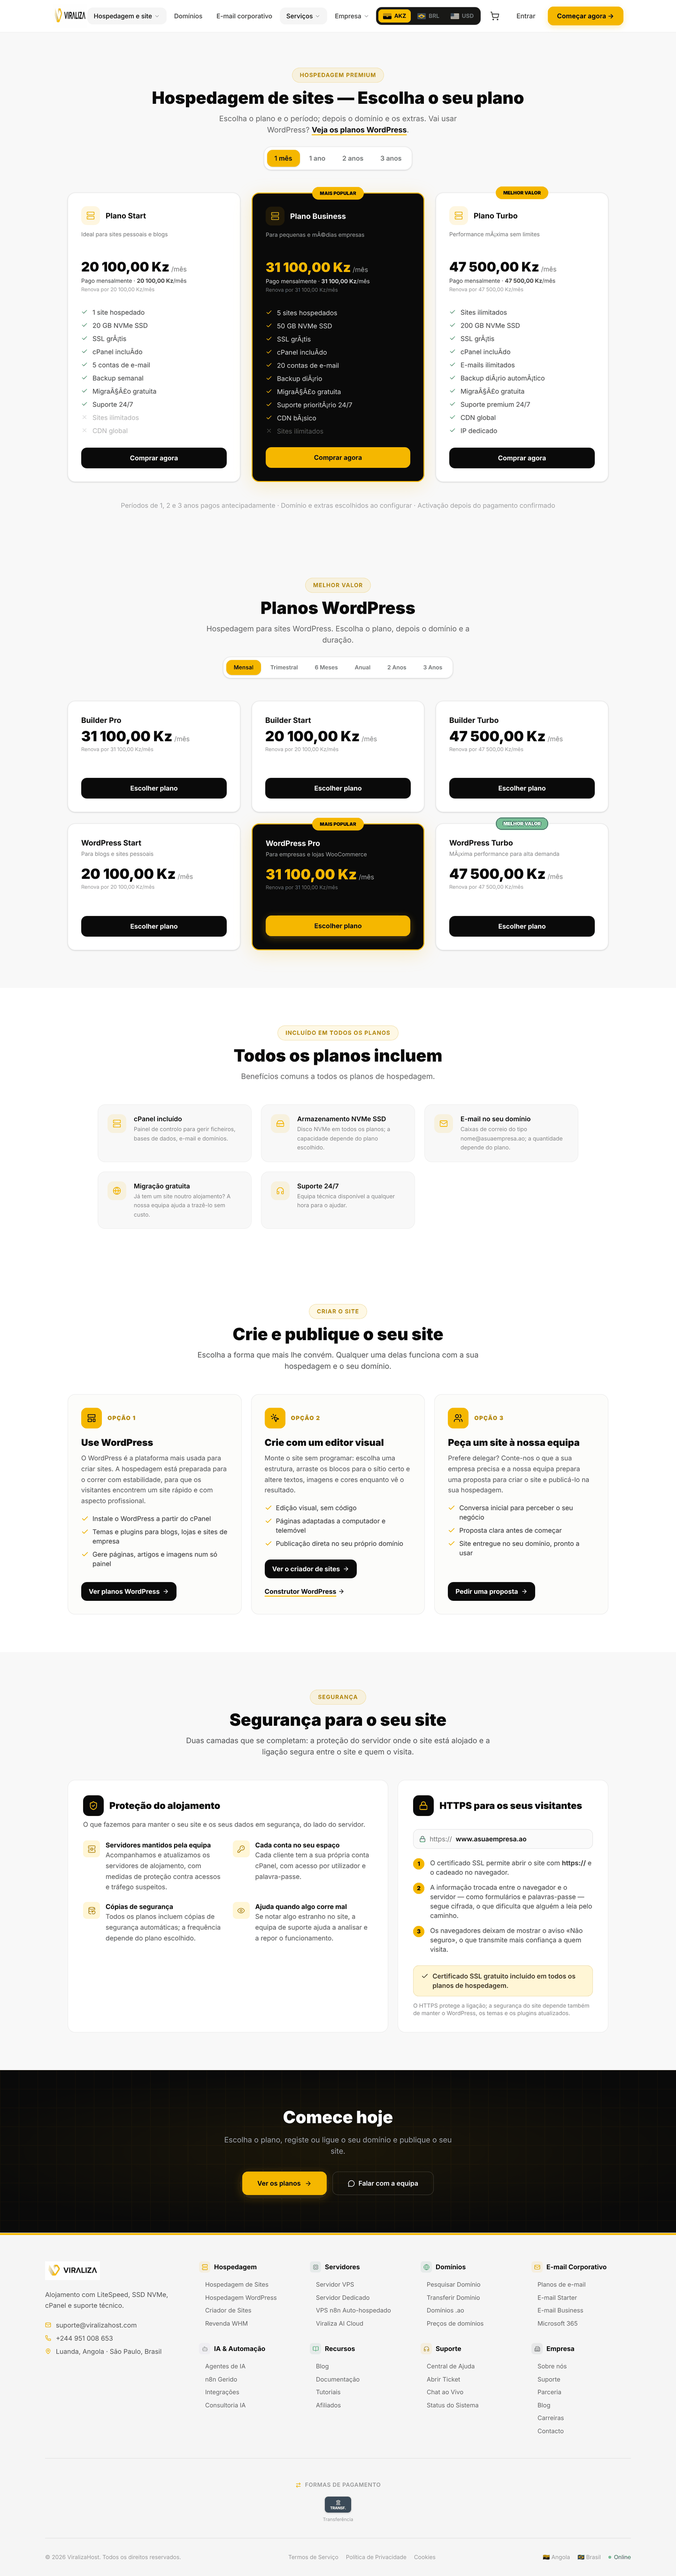
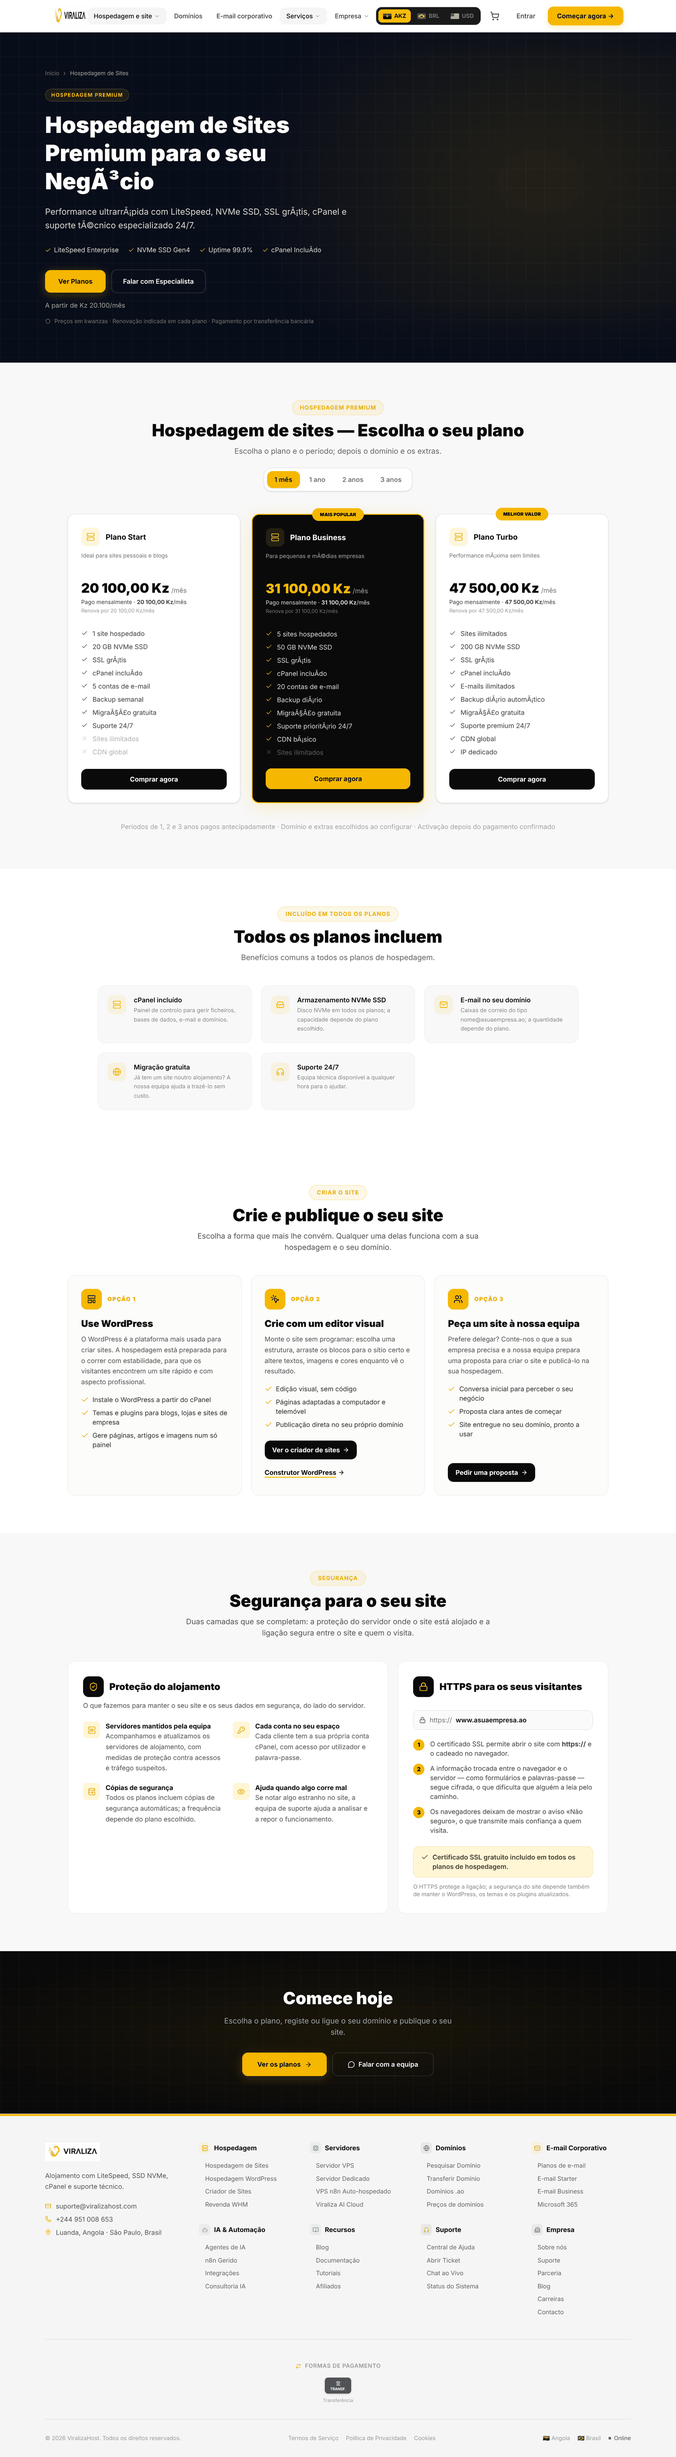
Hospedagem de sites: repõe a hero do painel e retira a grelha de planos WordPress
- Hero original (ServiceHero + «Banners de páginas», slug hospedagem-de-sites) antes de «Escolha o seu plano»;
  o H1 único volta a ser o título da hero e «Escolha o seu plano» passa a H2
- «Escolha o seu plano» só com planos de hospedagem de sites; grelha WordPress retirada desta página
  (catálogo, preços e /comprar/wp-… inalterados)
- «Use WordPress» passa a bloco informativo sem botão; /hospedagem-wordpress e rodapé → #wordpress
- Âncora do endereço reposicionada depois de os planos carregarem (evita cair acima de #wordpress)
- Ensaio hosting-page-e2e (77 verificações): hero do painel, sem grelha WordPress, links e percursos;
  verificação de pesquisa em menu-e2e passa a esperar pela página

Claude-Session: https://claude.ai/code/session_01CbKpVEo4bz2ohKVt8UVjik

diff --git a/src/app/hospedagem-de-sites/page.tsx b/src/app/hospedagem-de-sites/page.tsx
@@ -5,18 +5,22 @@ import { Header } from '@/components/layout/Header'
 import { Footer } from '@/components/layout/Footer'
 import { IncludedFeatures } from '@/components/service/IncludedFeatures'
 import { FinalCTA } from '@/components/service/FinalCTA'
-import { DynamicServicePricing } from '@/components/service/DynamicServicePricing'
 import { HostingPlansSection } from '@/components/service/HostingPlansSection'
 import { BuildSiteSection, SecuritySection, type SslCoverage } from '@/components/service/HostingSiteSections'
 import { getPool } from '@/lib/db/pool'
+import { ServiceHero } from '@/components/service/ServiceHero'
+import { getBannerPage } from '@/lib/banner-pages'
+import { fromPriceText } from '@/lib/commerce/from-price'
 
 // /hospedagem-de-sites — ordem fixa (ver docs/hospedagem-de-sites.md):
-//   1. Hospedagem de sites — Escolha o seu plano (#planos; inclui os planos WordPress em #planos-wordpress)
+//   0. Hero (ServiceHero + «Banners de páginas» do painel, slug hospedagem-de-sites; único H1)
+//   1. Hospedagem de sites — Escolha o seu plano (#planos; só planos de hospedagem de sites)
 //   2. Todos os planos incluem
 //   3. Crie e publique o seu site (#crie-o-seu-site; «Use WordPress» em #wordpress)
 //   4. Segurança para o seu site (#seguranca)
 //   5. Comece hoje (botão → #planos)
-// Preços, ciclos, descontos e «Comprar agora» vêm do catálogo (HostingPlansSection / DynamicServicePricing).
+// Preços, ciclos, descontos e «Comprar agora» vêm do catálogo (HostingPlansSection). Os planos WordPress não são
+// mostrados aqui, mas continuam no catálogo e à venda (/construtor-wordpress, /comprar/wp-…).
 
 export const metadata: Metadata = {
   title: 'Hospedagem de Sites',
@@ -49,19 +53,35 @@ async function sslCoverage(): Promise<SslCoverage> {
 }
 
 export default async function HospedagemDeSitesPage() {
-  const ssl = await sslCoverage()
+  const [ssl, banner, fromPrice] = await Promise.all([sslCoverage(), getBannerPage('hospedagem-de-sites'), fromPriceText('hosting')])
   return (
     <>
       <Header />
       <main>
-        {/* 1. Escolha o seu plano (hospedagem + WordPress, a partir do catálogo) */}
+        {/* 0. Hero (configuração em Painel → Site → Banners de páginas) */}
+        <div data-section="hero" data-testid="hosting-hero">
+          <ServiceHero
+            breadcrumb={banner?.breadcrumb ?? 'Hospedagem de Sites'}
+            tag={banner?.tag ?? 'Hospedagem Premium'}
+            title={banner?.title ?? 'Hospedagem de Sites Premium para o seu Negócio'}
+            subtitle={banner?.subtitle ?? 'Performance ultrarrápida com LiteSpeed, NVMe SSD, SSL grátis, cPanel e suporte técnico especializado 24/7.'}
+            price={fromPrice ?? undefined}
+            cta={banner?.button_primary_text ?? 'Ver Planos'}
+            ctaHref={banner?.button_primary_link ?? '#planos'}
+            ctaSecondary={banner?.button_secondary_text ?? 'Falar com Especialista'}
+            ctaSecondaryHref={banner?.button_secondary_link ?? '/tickets'}
+            bgImage={banner?.bg_image ?? 'https://images.unsplash.com/photo-1558618666-fcd25c85cd64?w=1920&q=80&auto=format&fit=crop'}
+            bgColor={banner?.bg_color ?? '#080d1a'}
+            highlights={banner?.highlights?.length ? banner.highlights : ["LiteSpeed Enterprise","NVMe SSD Gen4","Uptime 99.9%","cPanel Incluído"]}
+            guarantee={banner?.show_guarantee ?? true}
+            layout="split"
+          />
+        </div>
+        {/* 1. Escolha o seu plano (só hospedagem de sites, a partir do catálogo) */}
         <div data-section="plans">
-          <HostingPlansSection headingAs="h1" className="pt-32 md:pt-36 pb-16"
+          <HostingPlansSection
             title="Hospedagem de sites — Escolha o seu plano"
-            subtitle={<>Escolha o plano e o período; depois o domínio e os extras. Vai usar WordPress? <Link href="#planos-wordpress" className="font-bold text-[#0A0A0A] underline decoration-[#F5B700] decoration-2 underline-offset-4" data-testid="link-wordpress">Veja os planos WordPress</Link>.</>} />
-          <DynamicServicePricing id="planos-wordpress" category="wordpress" cols={3} showBillingToggle
-            title="Planos WordPress"
-            subtitle="Hospedagem para sites WordPress. Escolha o plano, depois o domínio e a duração." />
+            subtitle="Escolha o plano e o período; depois o domínio e os extras." />
         </div>
         {/* 2. Todos os planos incluem */}
         <div data-section="included" id="incluido" className="scroll-mt-24">

diff --git a/src/components/service/HostingSiteSections.tsx b/src/components/service/HostingSiteSections.tsx
@@ -17,7 +17,7 @@ const OPTIONS: Option[] = [
     id: 'wordpress', n: '1', icon: LayoutTemplate, title: 'Use WordPress',
     text: 'O WordPress é a plataforma mais usada para criar sites. A hospedagem está preparada para o correr com estabilidade, para que os visitantes encontrem um site rápido e com aspecto profissional.',
     points: ['Instale o WordPress a partir do cPanel', 'Temas e plugins para blogs, lojas e sites de empresa', 'Gere páginas, artigos e imagens num só painel'],
-    links: [{ label: 'Ver planos WordPress', href: '#planos-wordpress', tid: 'build-link-wordpress' }],
+    links: [], // bloco informativo (os planos WordPress não são apresentados nesta página)
   },
   {
     id: 'editor-visual', n: '2', icon: MousePointerClick, title: 'Crie com um editor visual',
@@ -54,14 +54,14 @@ export function BuildSiteSection() {
               <ul className="space-y-2 mb-6">
                 {o.points.map(p => <li key={p} className="flex gap-2 text-sm text-[#333]"><Check size={16} className="text-[#D9A300] shrink-0 mt-0.5" aria-hidden="true" />{p}</li>)}
               </ul>
-              <div className="mt-auto flex flex-wrap gap-x-4 gap-y-2">
+              {o.links.length > 0 && <div className="mt-auto flex flex-wrap gap-x-4 gap-y-2">
                 {o.links.map((l, i) => (
                   <Link key={l.href} href={l.href} data-testid={l.tid}
                     className={i === 0 ? 'inline-flex items-center gap-1.5 px-4 py-2.5 rounded-xl text-sm font-bold bg-[#0A0A0A] text-white hover:bg-[#222]' : 'inline-flex items-center gap-1 py-2.5 text-sm font-bold text-[#0A0A0A] underline decoration-[#F5B700] decoration-2 underline-offset-4'}>
                     {l.label} <ArrowRight size={14} aria-hidden="true" />
                   </Link>
                 ))}
-              </div>
+              </div>}
             </li>
           ))}
         </ol>

diff --git a/src/lib/site/pages.ts b/src/lib/site/pages.ts
@@ -33,7 +33,7 @@ export const PUBLIC_PAGES: PublicPage[] = [
   { path: '/', title: 'Início', desc: 'ViralizaHost', icon: 'globe', priority: 1, freq: 'weekly' },
 
   // Hospedagem e sites
-  { path: '/hospedagem-de-sites', title: 'Hospedagem de Sites', desc: 'cPanel, NVMe e SSL — com planos WordPress', icon: 'server', service: 'hospedagem', priority: 0.9, freq: 'weekly' },
+  { path: '/hospedagem-de-sites', title: 'Hospedagem de Sites', desc: 'cPanel, NVMe e SSL — também para WordPress', icon: 'server', service: 'hospedagem', priority: 0.9, freq: 'weekly' },
   { path: '/revenda-de-hospedagem', title: 'Revenda de Hospedagem', desc: 'WHM/cPanel para revenda profissional', icon: 'users', service: 'hospedagem', priority: 0.8, freq: 'weekly' },
   { path: '/criador-de-sites', title: 'Criador de Sites com IA', desc: 'Crie um site profissional em minutos', icon: 'zap', service: 'hospedagem', priority: 0.8, freq: 'weekly' },
   { path: '/construtor-wordpress', title: 'Construtor WordPress', desc: 'WordPress com builder visual e plugins premium', icon: 'code', service: 'hospedagem', priority: 0.8, freq: 'weekly' },
@@ -117,5 +117,5 @@ export const pagesInSection = (section: string) => PUBLIC_PAGES.filter(p => p.se
  * Os restantes URLs antigos mantêm-se porque continuam a ter função própria (ver docs/menu-e-paginas.md).
  */
 export const CONSOLIDATED_REDIRECTS: { source: string; destination: string }[] = [
-  { source: '/hospedagem-wordpress', destination: '/hospedagem-de-sites#planos-wordpress' },
+  { source: '/hospedagem-wordpress', destination: '/hospedagem-de-sites#wordpress' },
 ]

diff --git a/src/components/service/HostingPlansSection.tsx b/src/components/service/HostingPlansSection.tsx
@@ -171,6 +171,16 @@ export function HostingPlansSection({ id = 'planos', tag = 'Hospedagem Premium',
       .catch(err => { console.error('[HostingPlansSection]', err); setState('error') })
   }, [attempt])
 
+  // Os cartões chegam depois do carregamento e empurram o resto da página: se o endereço tiver uma âncora mais abaixo
+  // (ex.: /hospedagem-de-sites#wordpress), volta a posicioná-la uma vez, quando os planos ficam visíveis.
+  useEffect(() => {
+    if (state !== 'ok' || typeof window === 'undefined') return
+    const hash = decodeURIComponent(window.location.hash.slice(1))
+    if (!hash || hash === id) return
+    const target = document.getElementById(hash), self = document.getElementById(id)
+    if (target && self && (self.compareDocumentPosition(target) & Node.DOCUMENT_POSITION_FOLLOWING)) requestAnimationFrame(() => target.scrollIntoView())
+  }, [state, id])
+
   // Períodos publicados em pelo menos um plano; etiqueta do selector a partir dos planos disponíveis nesse período
   const periods = useMemo(() => PLAN_PERIODS.map(per => {
     const cards = plans.filter(p => p.sale_status !== 'on_request').map(p => toCardPlan(p, per.cycle)).filter(c => c.period)

diff --git a/src/components/layout/Footer.tsx b/src/components/layout/Footer.tsx
@@ -37,7 +37,7 @@ const columns = [
     title: 'Hospedagem',
     links: [
       { label: 'Hospedagem de Sites',  href: '/hospedagem-de-sites' },
-      { label: 'Hospedagem WordPress', href: '/hospedagem-de-sites#planos-wordpress' },
+      { label: 'Hospedagem WordPress', href: '/hospedagem-de-sites#wordpress' },
       { label: 'Criador de Sites',     href: '/criador-de-sites' },
       { label: 'Revenda WHM',          href: '/revenda-de-hospedagem' },
     ],
